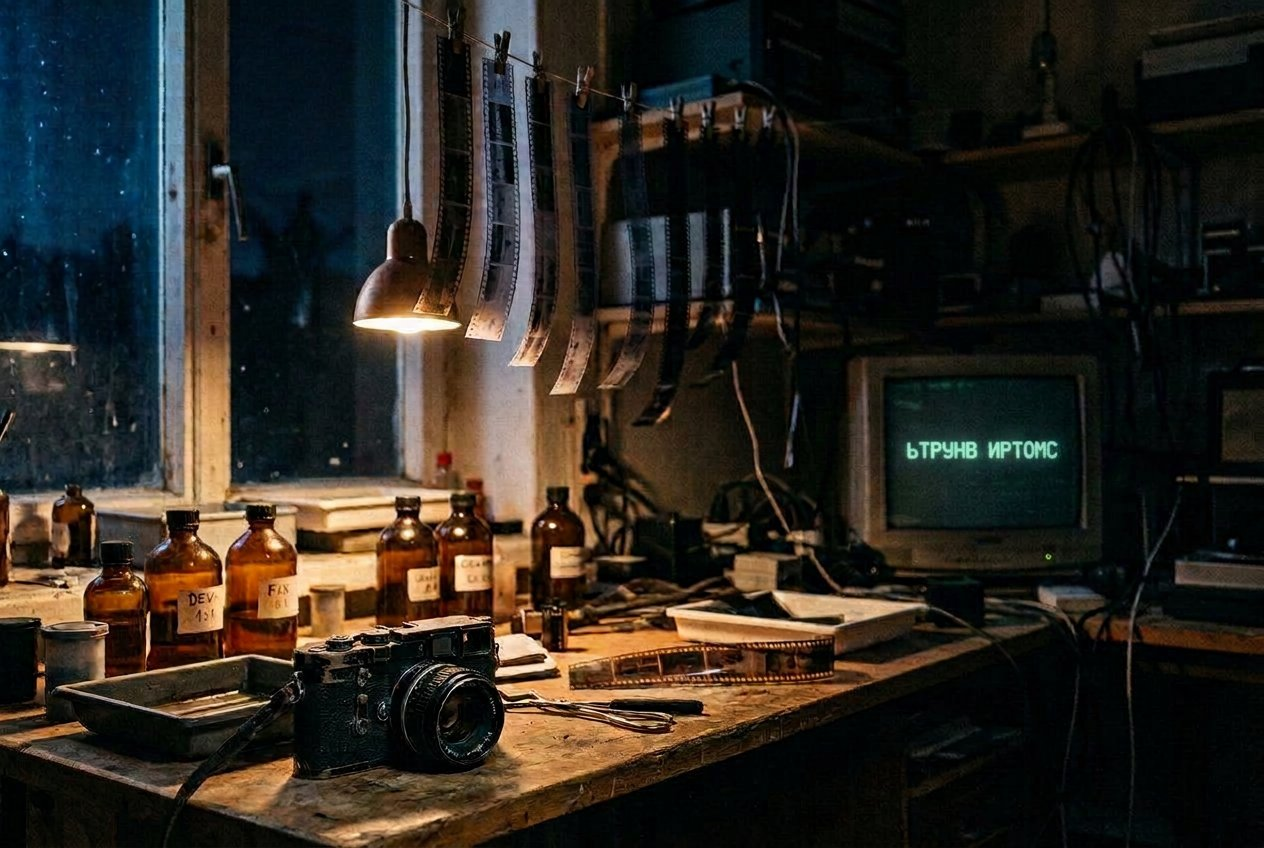
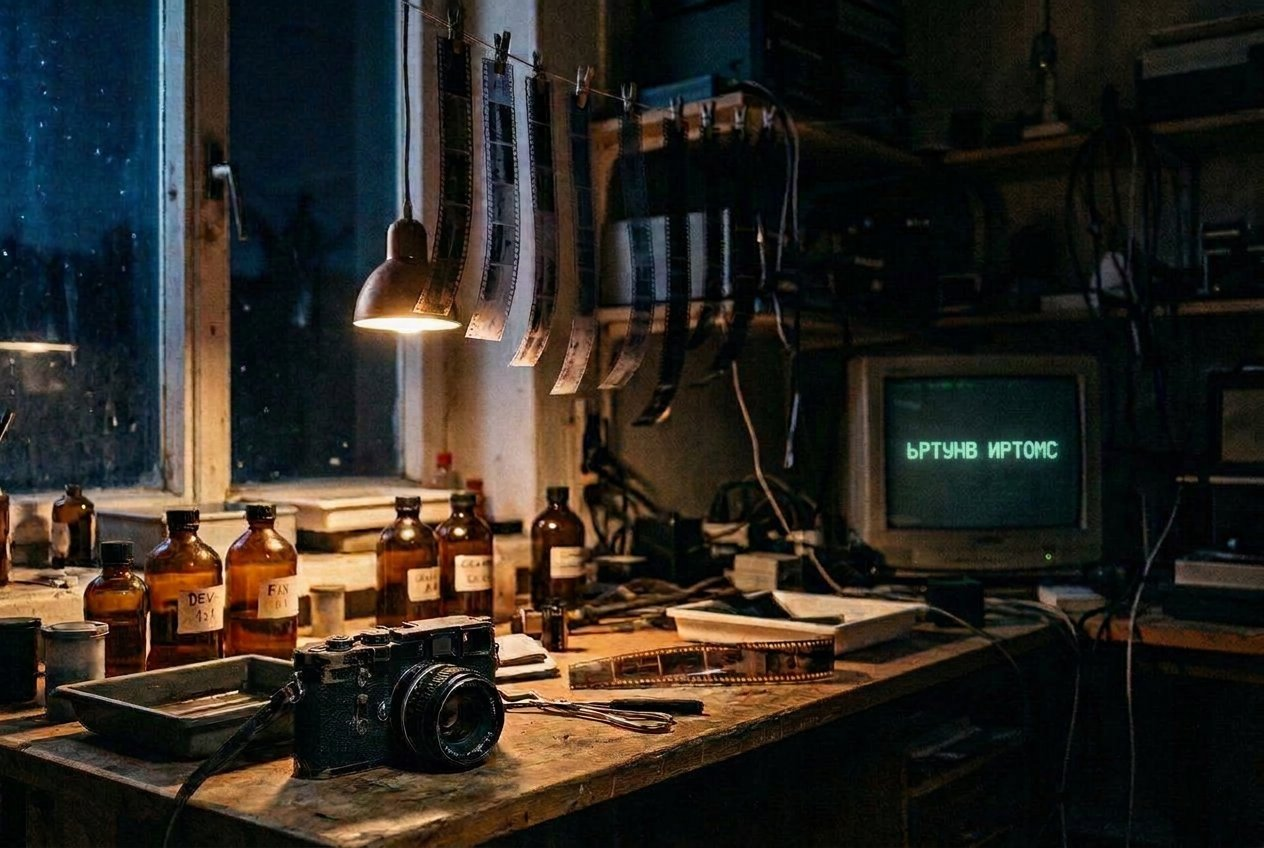
N1: на мониторе правильный реверс СМОТРИ ВНУТРЬ — ЬРТУНВ ИРТОМС.

diff --git a/doc/QUEST_WALKTHROUGH.md b/doc/QUEST_WALKTHROUGH.md
@@ -37,7 +37,7 @@ LSB и цветовые каналы **нет** (это уже вход из SIG
 ### Ответ 1 → `СМОТРИ ВНУТРЬ`
 
 1. Скачай документ, открой как картинку.
-2. На экране монитора зелёным: `ЬТРУНВ ИРТОМС` — задом наперёд.
+2. На экране монитора зелёным: `ЬРТУНВ ИРТОМС` — задом наперёд.
 3. В бота: **СМОТРИ ВНУТРЬ**
 
 ### Ответ 2 → `255,217` (или `FFD9`)
